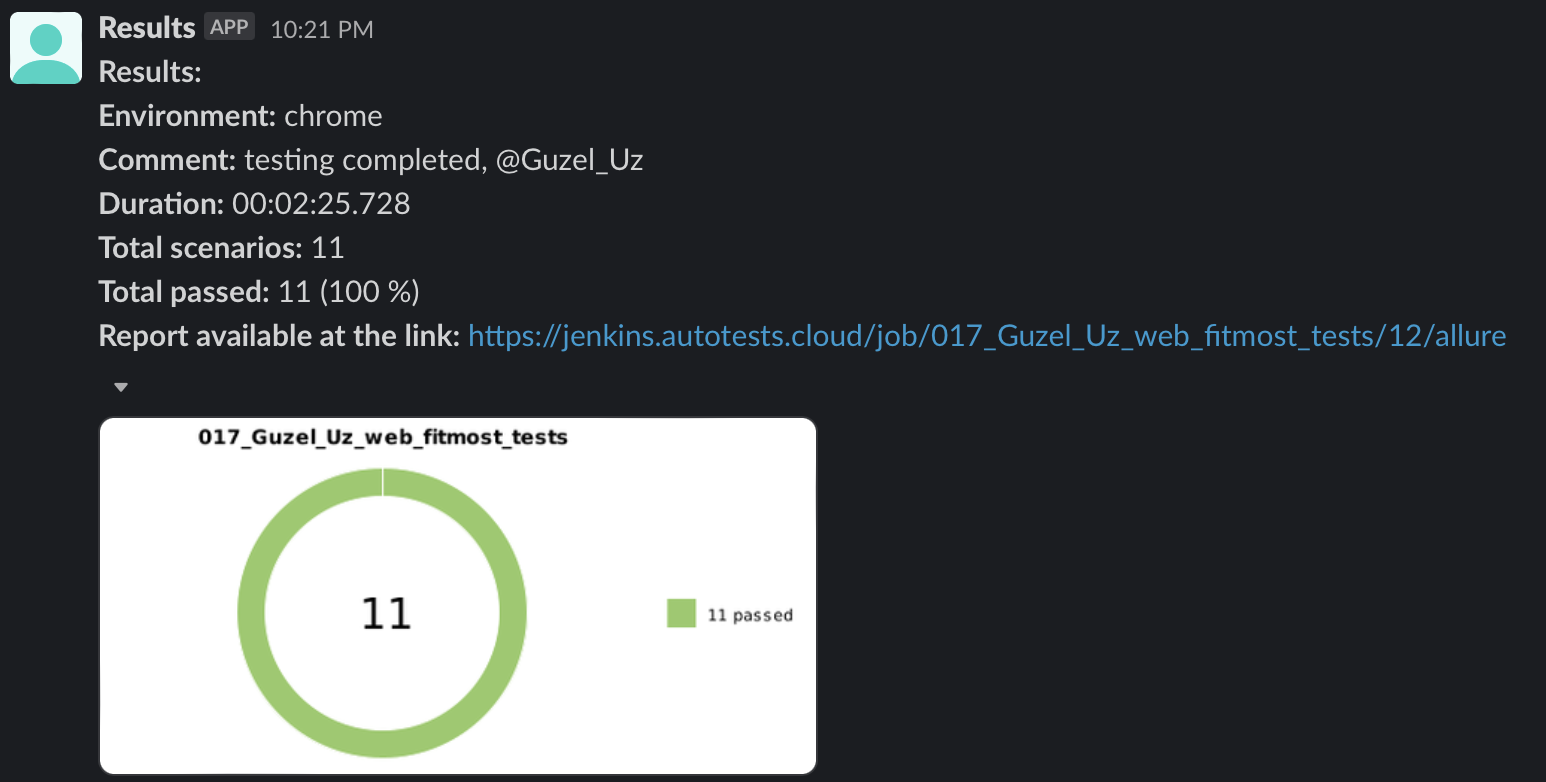
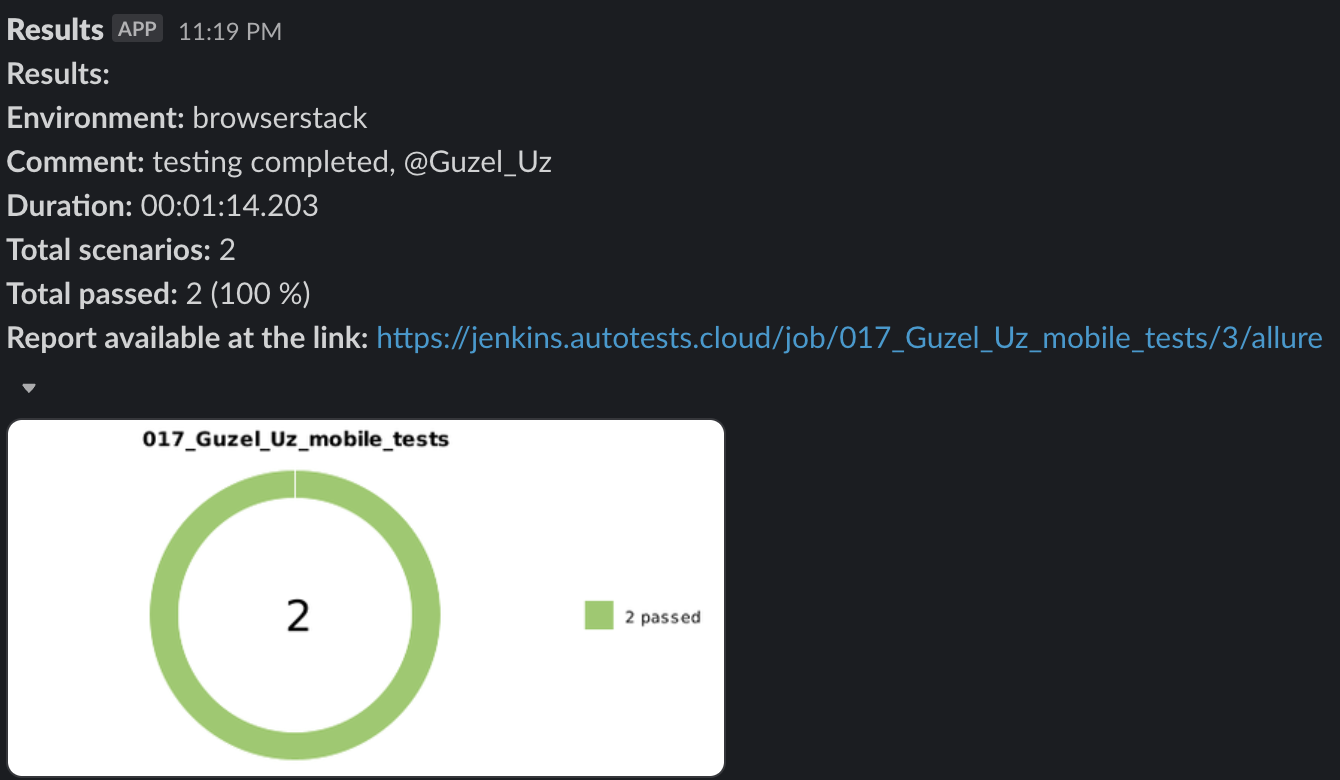
added readme

diff --git a/README.md b/README.md
@@ -1,0 +1,126 @@
+<h1 >Проект автоматизации мобильного тестирования WIKIPEDIA
+
+## Содержание
+
+* <a href="#tools">Технологии и инструменты</a>
+* <a href="#cases">Реализованные проверки</a>
+* <a href="#console">Запуск тестов</a>
+* <a href="#jenkins">Запуск тестов в Jenkins</a>
+* <a href="#allure">Отчеты в Allure</a>
+* <a href="#testops">Интеграция с Allure TestOps</a>
+* <a href="#telegram">Уведомления в Telegram и Slack с использованием бота</a>
+* <a href="#video">Видео прохождения тестов</a>
+
+<a id="tools"></a>
+## Технологии и инструменты
+
+<div align="center">
+<a href="https://www.jetbrains.com/idea/"><img alt="InteliJ IDEA" height="50" src="images/logo/IntelliJ_IDEA.png" width="50"/></a>
+<a href="https://github.com/"><img alt="GitHub" height="50" src="images/logo/GitHub.png" width="50"/></a>  
+<a href="https://www.java.com/"><img alt="Java" height="50" src="images/logo/Java_logo.png" width="50"/></a>
+<a href="https://gradle.org/"><img alt="Gradle" height="50" src="images/logo/Gradle.png" width="50"/></a>  
+<a href="https://junit.org/junit5/"><img alt="JUnit 5" height="50" src="images/logo/JUnit5.png" width="50"/></a>
+<a href="https://selenide.org/"><img alt="Selenide" height="50" src="images/logo/Selenide.png" width="50"/></a>
+<a href="https://rest-assured.io/"><img alt="Rest-assured" height="50" src="images/logo/RestAssured.png" width="50"/></a>
+<a href="https://developer.android.com/studio/"><img alt="Android Studio" height="50" src="images/logo/AndroidStudio.svg" width="50"/></a>
+<a href="https://appium.io/"><img alt="Appium" height="50" src="images/logo/Appium.svg" width="50"/></a>
+<a href="https://https//www.browserstack.com/"><img alt="Browserstack" height="50" src="images/logo/Browserstack.svg" width="50"/></a>
+<a href="https://www.jenkins.io/"><img alt="Jenkins" height="50" src="images/logo/Jenkins.png" width="50"/></a>
+<a href="https://github.com/allure-framework/"><img alt="Allure Report" height="50" src="images/logo/AllureReports.png" width="50"/></a>
+<a href="https://qameta.io/"><img alt="Allure TestOps" height="50" src="images/logo/AllureTestOps.svg" width="50"/></a>
+<a href="https://telegram.org/"><img alt="Telegram" height="50" src="images/logo/Telegram.png" width="50"/></a>
+<a href="https://telegram.org/"><img alt="Telegram" height="50" src="images/logo/Slack.png" width="50"/></a>
+</div>
+
+Автотесты написаны на `Java` с использованием `JUnit 5` и `Gradle`.
+
+Краткий список интересных фактов о проекте:
+- [x] Реализация автестов с использованием `Browserstack`
+- [x] Реализация автестов с использованием `Appium`
+- [x] Custom Allure listener для API requests/responses логов
+- [x] Cборка в `Jenkins`
+- [x] Формирование Allure-отчета
+- [x] Интеграция с `Allure TestOps`
+- [x] Отправка уведомления с результатами в `Telegram` и `Slack`
+
+<a id="cases"></a>
+## Реализованные проверки
+
+### Автоматизированные проверки в Browserstack
+
+:heavy_check_mark: Verify content found in Search Wikipedia
+
+:heavy_check_mark: Verify error first page in Search Wikipedia
+
+:heavy_check_mark: Verify output text in Search Wikipedia
+
+### Автоматизированные проверки в Appium
+
+:heavy_check_mark: Verify primaryTextView in Wikipedia
+
+:heavy_check_mark: Verify skip button
+
+<a id="console"></a>
+##  Запуск тестов
+
+### Локальный запуск тестов
+```
+gradle clean android -DdeviceHost=android 
+```
+### Удаленный запуск тестов
+```
+gradle clean android -DdeviceHost=android 
+```
+
+<a id="jenkins"></a>
+## Запуск тестов в <a target="_blank" href="https://jenkins.autotests.cloud/job/017_Guzel_Uz_mobile_tests/"> Jenkins </a>
+
+<p align="center">
+<img src="images/screenshots/JenkinsJob.PNG"/>
+</p>
+
+<a id="allure"></a>
+## Отчеты в <a target="_blank" href="https://jenkins.autotests.cloud/job/017_Guzel_Uz_mobile_tests/3/allure/"> Allure report </a>
+
+### Основное окно
+
+<p align="center">
+<img src="images/screenshots/AllureOverview.png">
+</p>
+
+### Тесты
+
+<p align="center">
+<img src="images/screenshots/AllureBehaviors.png">
+</p>
+
+<a id="testops"></a>
+## Интеграция с <a target="_blank" href="https://allure.autotests.cloud/project/2185/dashboards"> Allure TestOps </a>
+
+### Доска
+<p align="center">
+<img src="images/screenshots/AllureTestOpsDashboard.PNG">
+</p>
+
+<a id="telegram"></a>
+## Уведомления в Telegram с использованием бота
+
+<p>
+<img src="images/screenshots/TelegramBot.PNG">
+</p>
+
+<a id="slack"></a>
+## Уведомления в Slack с использованием бота
+
+<p>
+<img src="images/screenshots/SlackBot.PNG">
+</p>
+
+<a id="video"></a>
+
+## Видео прохождения тестов
+
+> К каждому тесту в отчете прилагается видео
+<p align="center">
+  <img src="images/video/video.gif">
+</p>
